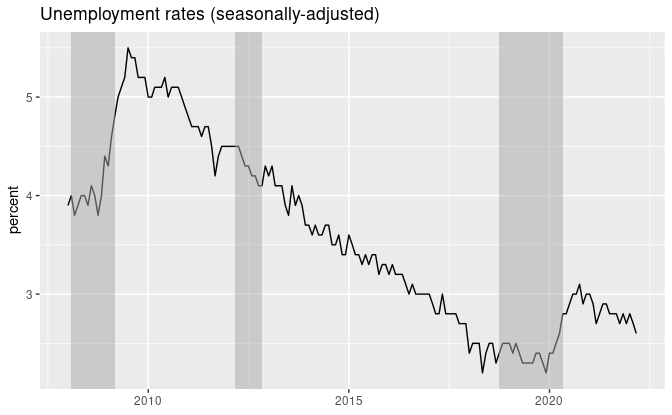
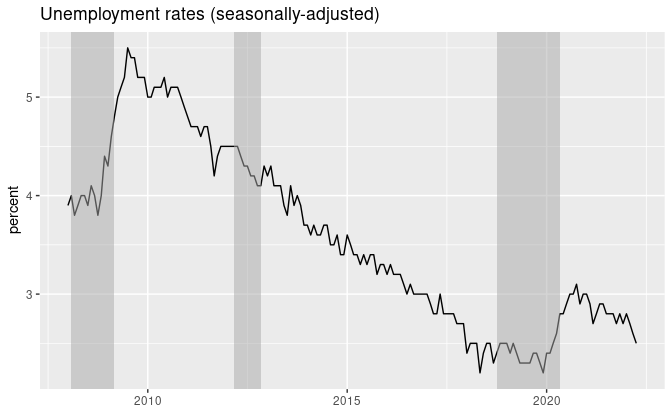
update April 2022 unemployment

diff --git a/README.md b/README.md
@@ -10,7 +10,7 @@ Mitsuo Shiota
 -   [Suicide cases are bouncing back, but not as fast as the program
     suggests](#suicide-cases-are-bouncing-back-but-not-as-fast-as-the-program-suggests)
 
-Updated: 2022-05-23
+Updated: 2022-06-01
 
 ## Motivation
 
